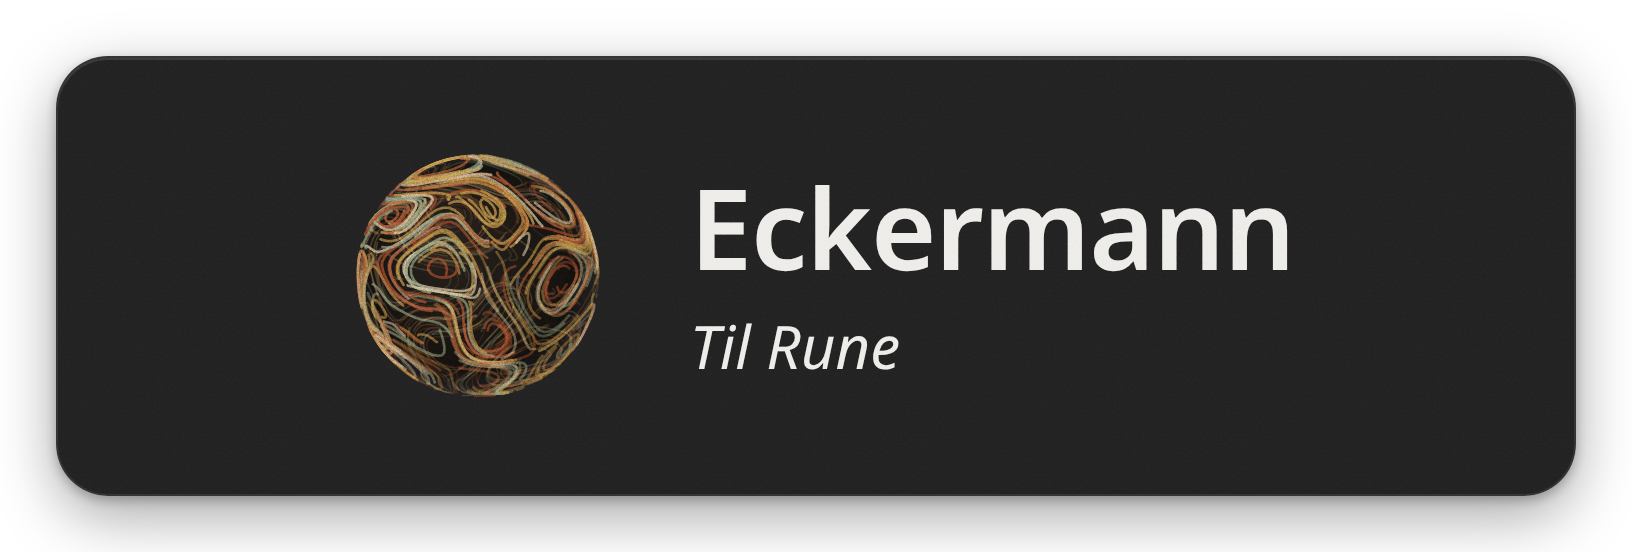
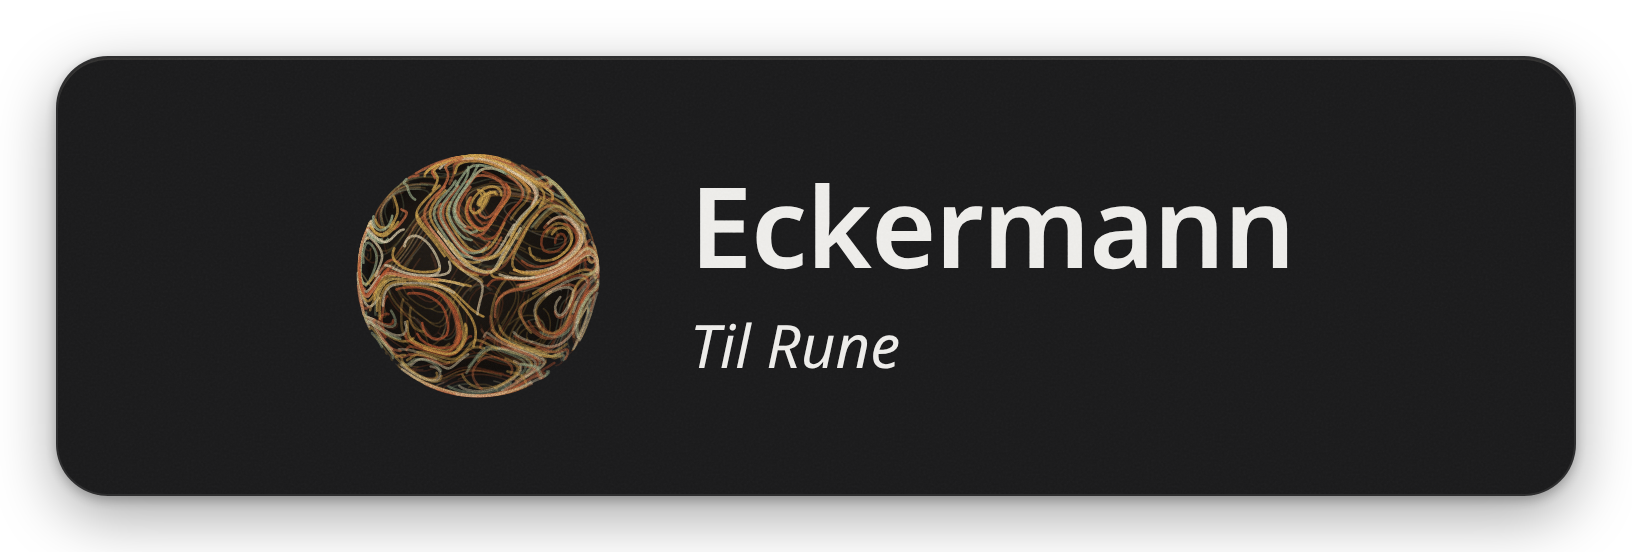
docs: absolutely fancy tricks

diff --git a/README.md b/README.md
@@ -1,4 +1,7 @@
-![Eckermann, til Rune](.github/banner.png)
+<picture>
+  <source media="(prefers-reduced-motion: reduce)" srcset=".github/banner.png">
+  <img src=".github/banner.webp" alt="Eckermann, til Rune">
+</picture>
 
 Fully local, cross-platform on-device speech-to-text, surpassing subscription-based cloud solutions in both accuracy and user experience, all without your data ever leaving your machine. Eckermann is tuned for natural language writing, designed first and foremost as an accessibility tool. 
 
